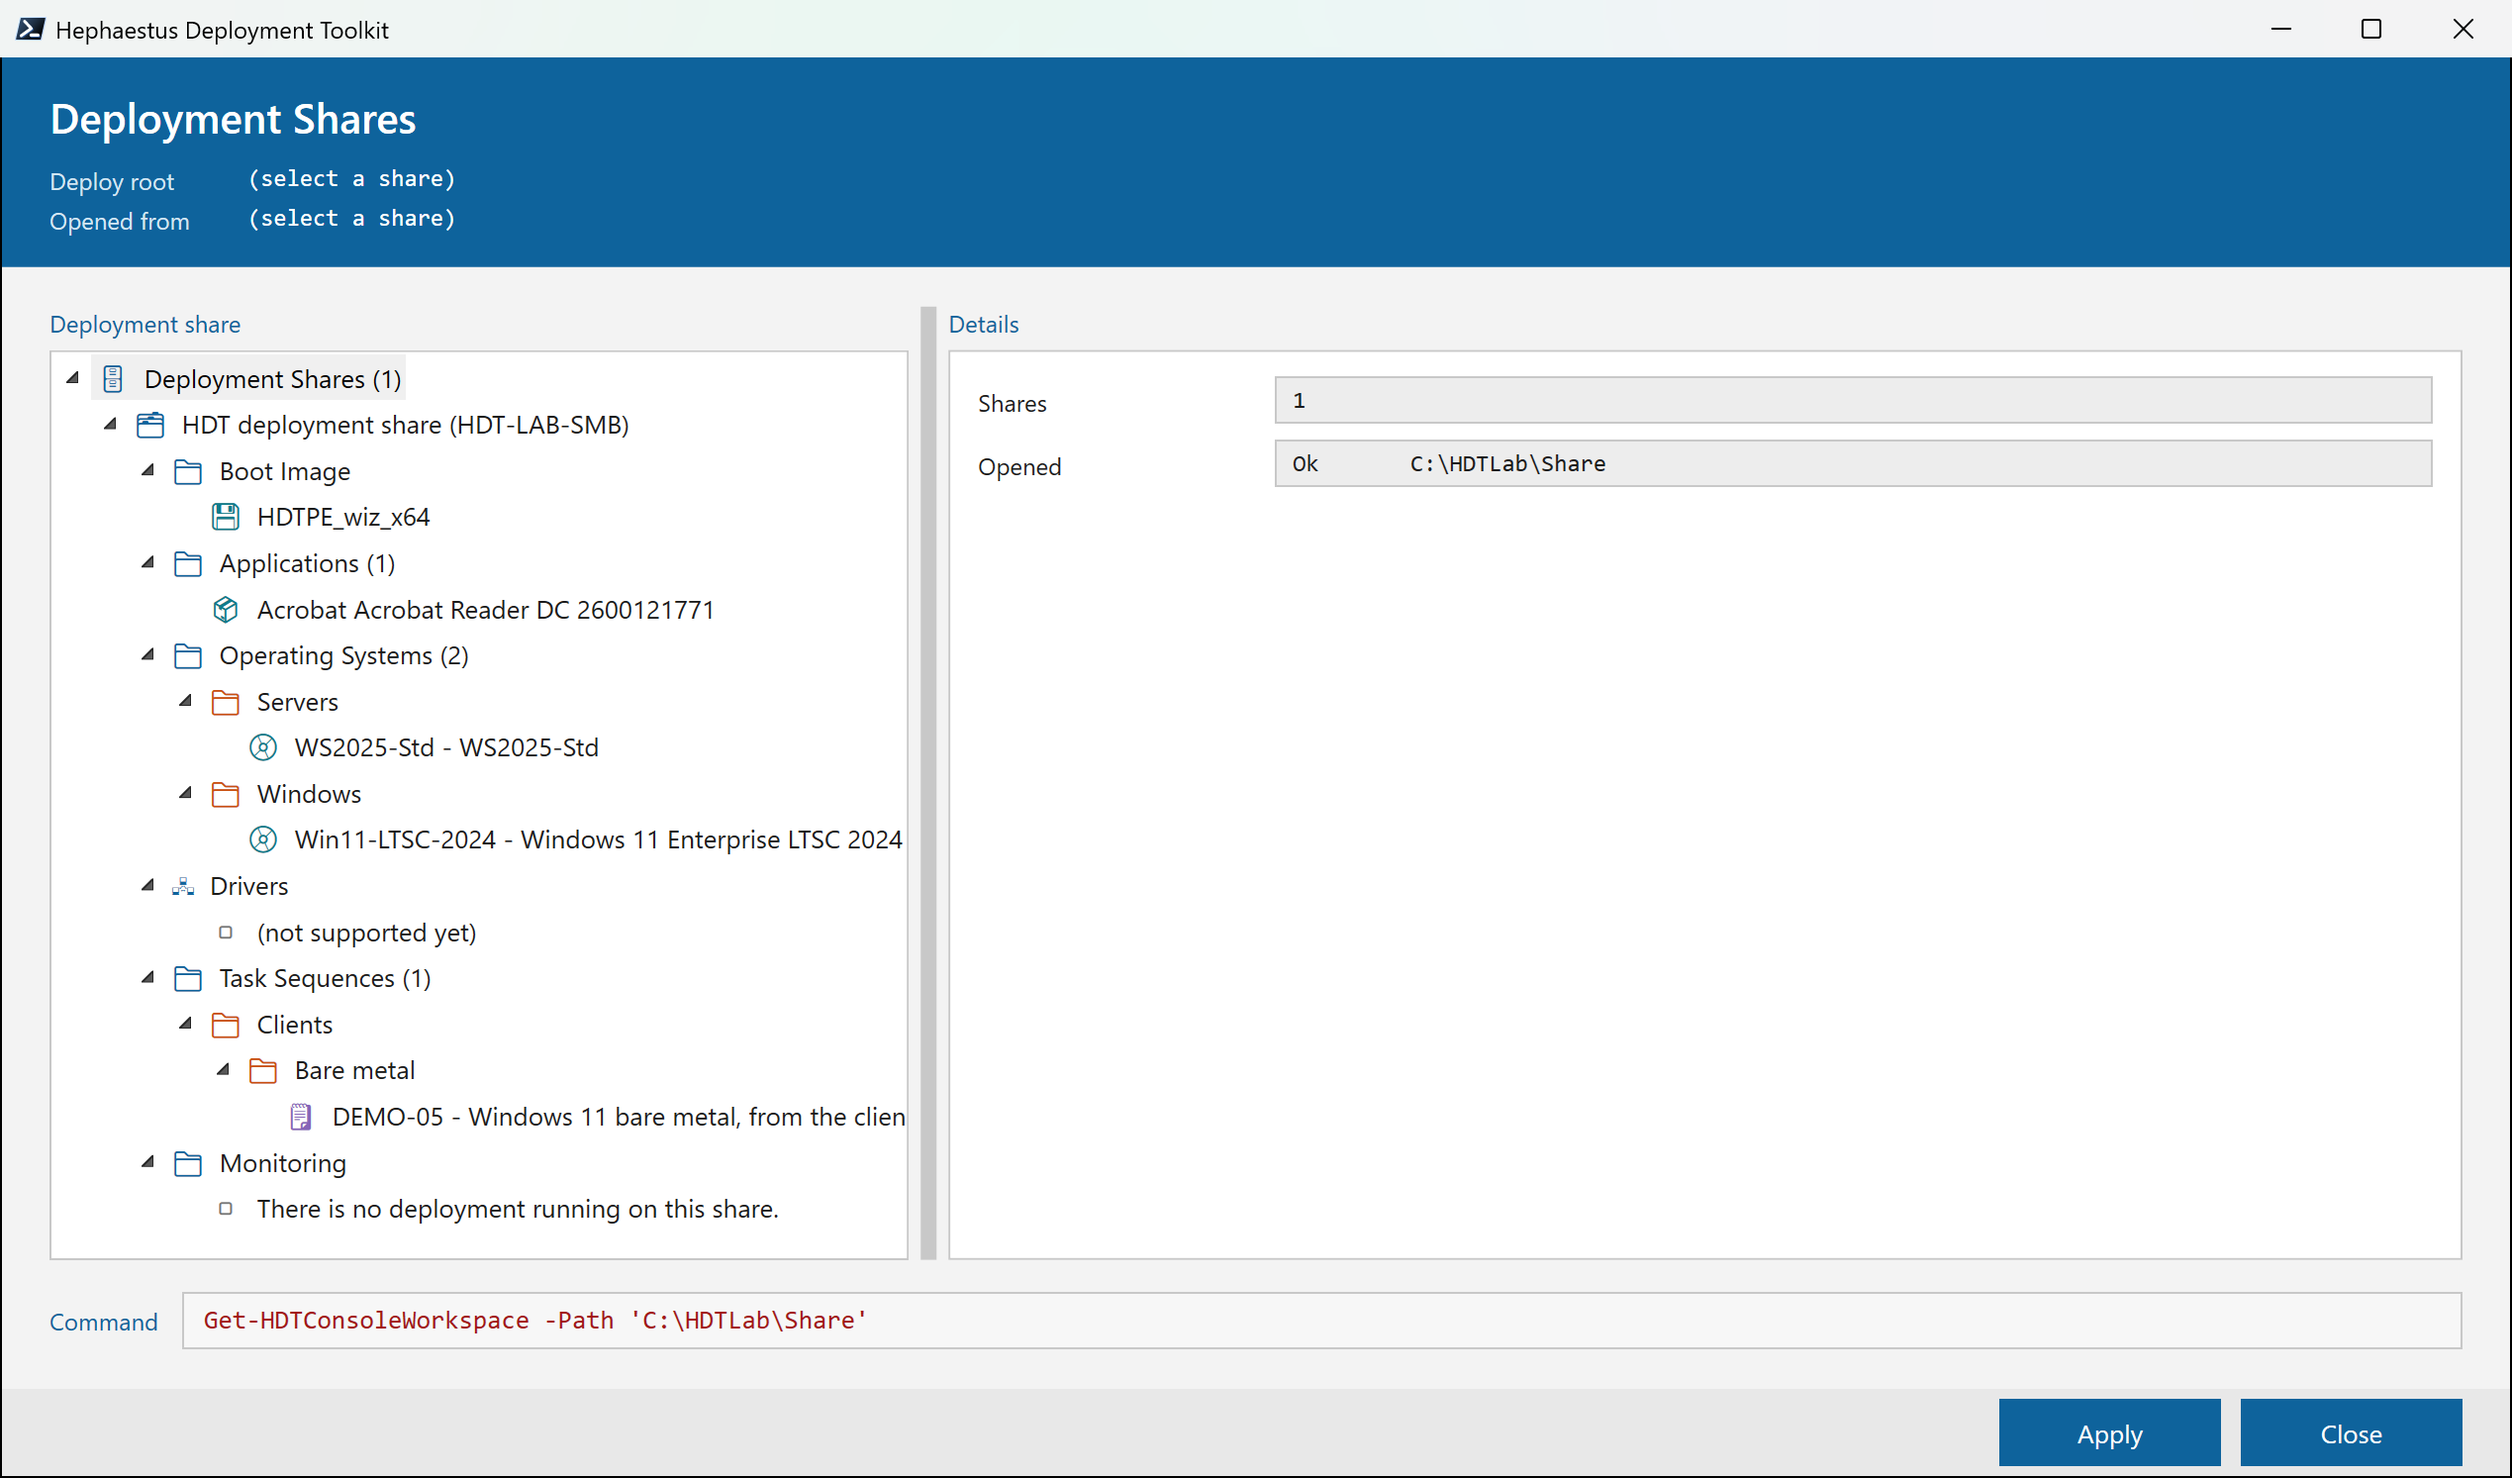
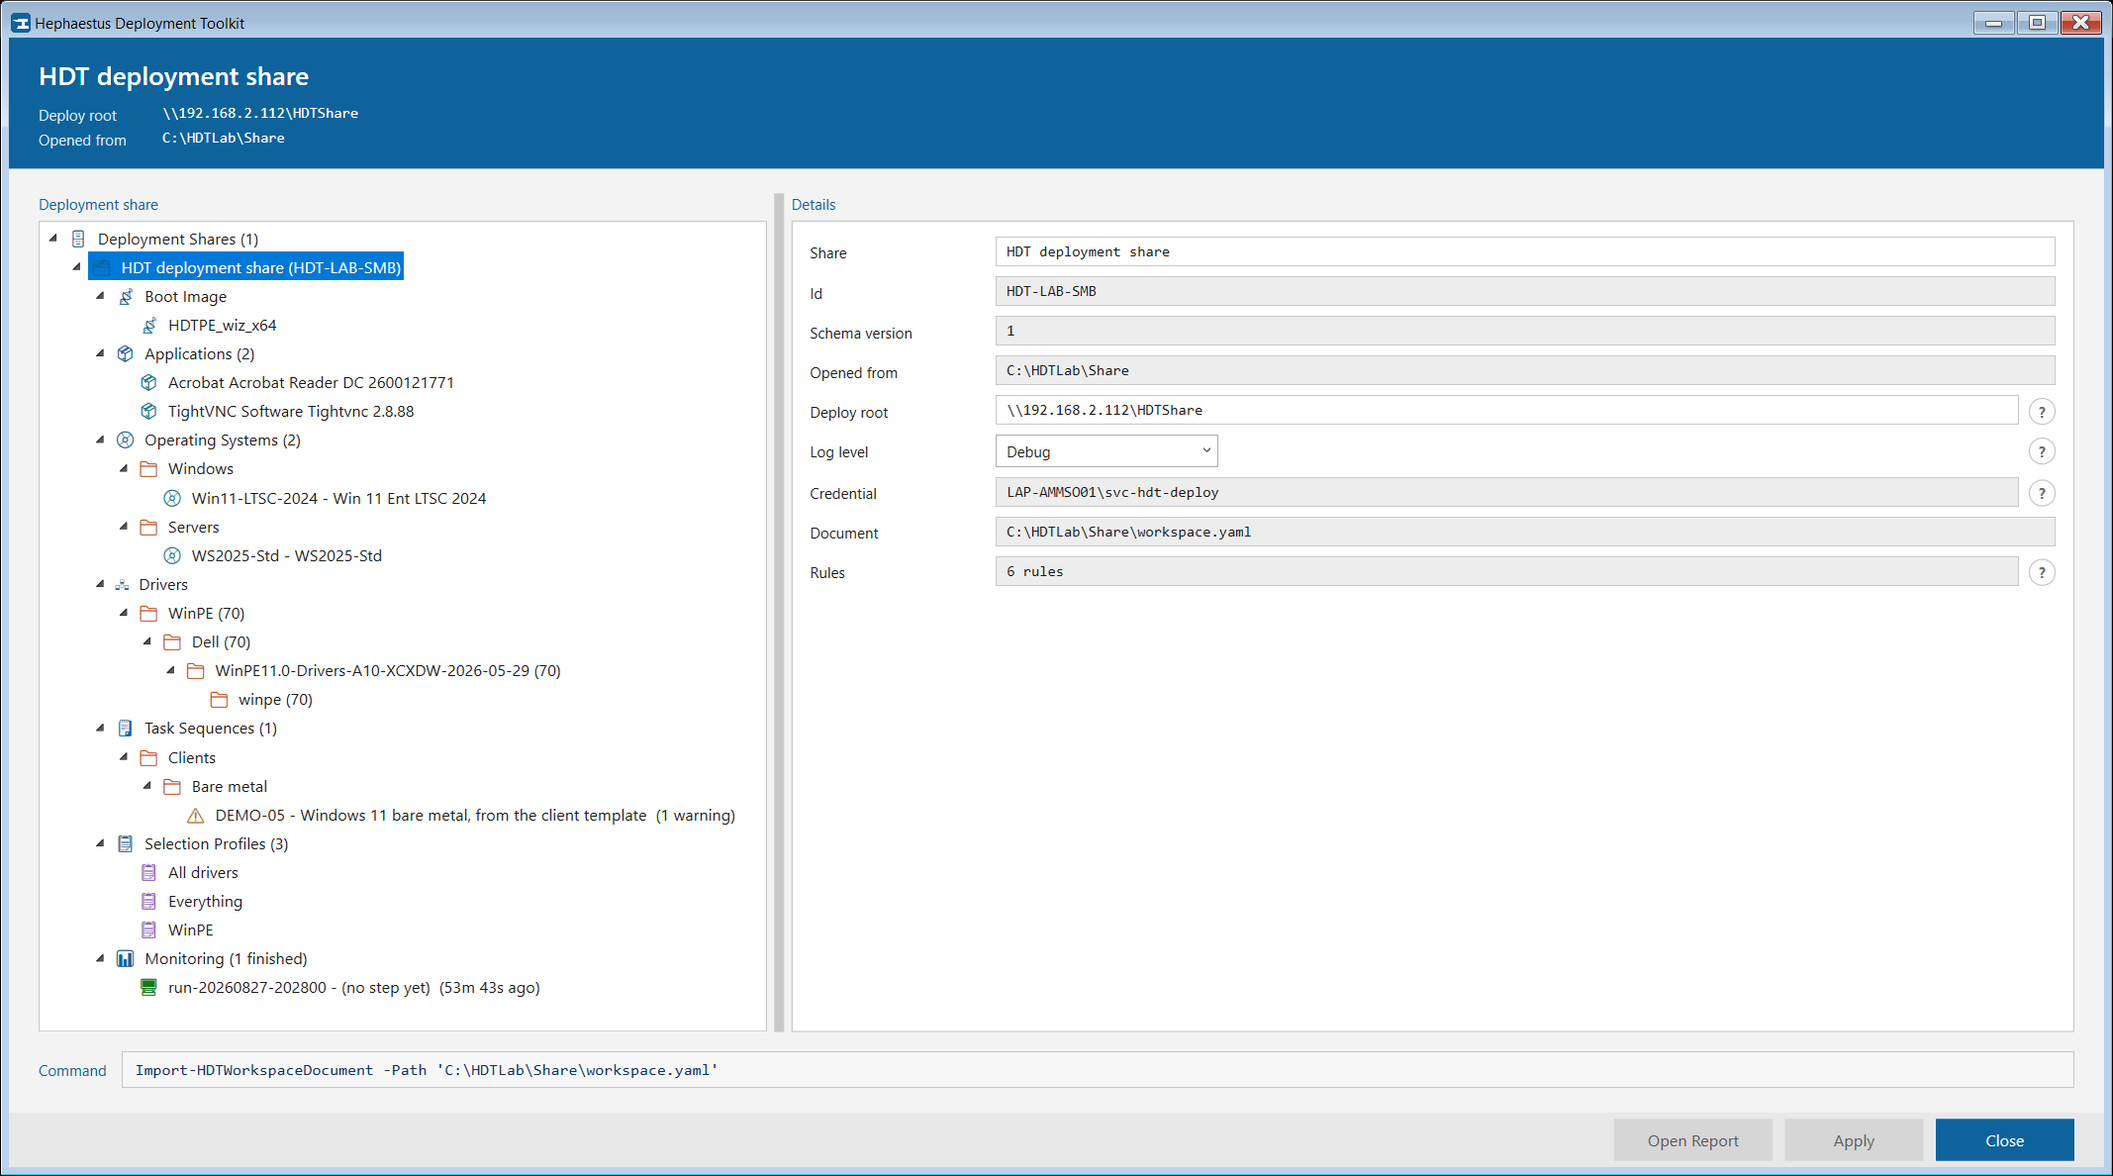
docs: the console gallery, and a Status that stopped at M2
The Status section listed M0, M1 and M2 and then stopped, while the roadmap
ran to M8 and M8 was met. It is a table now, sourced from the roadmap's own
markers - including the two that are not simple: M5 shipped group match and
the catalog but defers the PnP fallback to v2, and M7 is deferred to v2
entirely, scheduled out rather than cut. M6's step types all ship and the
roadmap records no exit for it, which is what it now says rather than a
claim either way.

console.png predated today's icons. Every category on a share used to draw
the same closed folder; the shot now shows the seven it draws instead.

AND MONITORING WAS NOWHERE IN THE README, which is odd for the node that
watches a deployment happen. What Health means, why a verdict is never aged
and a claim always is, why Last heartbeat is a time rather than the age the
row above it already carries, and what Clear Run is for.

No screenshot of it: the only run on the lab share was written by the engine
BEFORE today's fix, so its row still reads '(no step yet)' and '0 of 12'. A
gallery image advertising a bug that no longer exists is worse than no image,
and deleting somebody's run to take a prettier picture is not a reason to
delete anything.

Claude-Session: https://claude.ai/code/session_016BGxA1DUuUgZUMa8HBoWRV

Changed region(s): [[0.0, 0.0, 1.0, 1.0]]

diff --git a/README.md b/README.md
@@ -101,6 +101,44 @@ machine cannot reach the share, so a static address can be typed and retried.
 
 ![The WinPE Welcome screen](docs/images/wizard-welcome.png)
 
+**Monitoring** is MDT's node of the same name, without its web service or its
+SQL. The engine writes one small heartbeat per running deployment into
+`Logs\_active\` on the share, and the console tails that directory on a timer:
+a machine appears there within seconds of starting and moves as it works.
+
+Every run carries a **Health**, and the four the engine can report are kept
+apart rather than flattened into "done":
+
+| Health | What it means |
+|---|---|
+| **Live** | running, and it spoke within the stale window |
+| **Rebooting** | waiting to restart, and it will carry on afterwards |
+| **Finished** | the sequence succeeded |
+| **Failed** | it did not, and the row is drawn as an error |
+| **Stalled** | it claims to be working and has said nothing for 20 minutes |
+| **Unreadable** | the heartbeat parsed but carried no timestamp |
+
+A verdict is never aged and a claim always is. Succeeded and Failed are final,
+so they do not decay into Stalled — a completed heartbeat is not a heartbeat
+that stopped, and ageing one into a red row teaches a technician to ignore red.
+Running and Rebooting both *claim* something is still happening, so silence past
+the stale window means the claim is what went wrong: a machine that rebooted and
+never came back is exactly the failure this node exists for.
+
+**Last heartbeat** is a local wall-clock time, not an age — the age is already
+on the tree row, and a time is what gets written into a ticket or lined up
+against a log. Nothing syncs a clock in WinPE, so a machine can be hours ahead
+of the console; the age clamps to zero so it is not branded stale, but the time
+is shown exactly as claimed, because that disagreement is the only thing on
+screen that makes the skew visible.
+
+Nothing ever removed a heartbeat, so a share that had built fifty machines drew
+fifty rows with the live one somewhere among them. **Clear Run** on a row takes
+it off. It is the one deletable thing on a share that breaks nothing — no task
+sequence reads a heartbeat, no boot image names one — so the dialog says the
+deployment itself is unaffected instead of borrowing the "cannot be undone"
+warning the real removals carry.
+
 ## The PowerShell 5.1 constraint
 
 The engine runs inside WinPE, and WinPE ships Windows PowerShell 5.1 only —
@@ -326,32 +364,35 @@ dying mid-write, and it never contains the deployment password.
 
 ## Status
 
-**Phase 01 (M0 — skeleton and harness) is complete.** The module skeleton, the
-`HDTTestTools` and `HDTFakes` helper modules, `build.ps1`, the naming /
-PowerShell 5.1 / no-MDT contract tests, the first service fakes and their
-contracts, the harness self-proof and CI are all in place. `./build.ps1 -Task
-test` is green on a clean clone under both engines.
+A milestone is not done until its exit criteria are met with a green suite.
+`docs/ROADMAP.md` holds each one and how it was proven.
 
-**Phase 02 (M1 — variables and rules) is complete.** Fact gathering behind
-`ICimProvider`, the `rules.yaml` parser and schema, the five-source resolution
-engine with `%Var%` expansion and `setFrom:` script rules, and provenance —
-queryable with `Get-HDTVariableProvenance` and written to `provenance.json`. The
-M1 exit criterion is demonstrated end to end in
-`tests/unit/GatherAndResolve.EndToEnd.Tests.ps1`, over fixtures and fakes only.
+| Milestone | State |
+|---|---|
+| **M0** — skeleton and harness | complete |
+| **M1** — variables and rules | complete |
+| **M2** — task sequence engine | met |
+| **M3** — imaging | met |
+| **M4** — boot image, ISO and PXE | met, as scoped in the roadmap |
+| **M5** — drivers | group match and the catalog shipped; the **PnP fallback** for an unrecognised model is deferred to v2 |
+| **M6** — applications and full-OS steps | the step types ship — `InstallApplications`, `InstallRoles`, `InstallCertificate`, `EnableBitLocker`, `PowerShell`, `Tattoo` — and the roadmap records no exit for it yet |
+| **M7** — capture and standalone media | **deferred to v2**, at the author's direction. Scheduled out, not cut |
+| **M8** — console (WPF) | met |
 
-**Phase 03 (M2 — task sequence engine) is complete.** `sequence.yaml` with its
-schema, groups, nesting and the closed condition grammar; the step contract and
-its discovery convention; the execution loop with `runIn`, conditions,
-`continueOnError`, retry with backoff and timeout detection; the state document
-with a checkpoint either side of every step; the autologon lifecycle with a
-per-deployment password in an LSA secret, `AutoLogonCount`, a boot-time reconcile
-and teardown from `finally`; structured JSONL + CMTrace logging; and
-`ConvertTo-HDTReport`. The M2 exit criterion is demonstrated twice: by
-`tests/unit/TaskSequence.EndToEnd.Tests.ps1`, which runs the `DEMO-M2` sample
-across three legs and two reboots against fakes and asserts the exact ordered
-list of operations it would have performed on a machine, and by a live run of the
-same sequence against the real filesystem, clock and process service whose report
-was opened in a browser.
+**M8's four legs were walked in the real window, not read out of the source.**
+Author a task sequence, edit it, build the boot image and ISO from the console,
+and watch the run land in Monitoring — with the equivalent cmdlet readable off
+every action. The fourth leg finished on real hardware on 2026-08-27: a
+Generation 2 VM booted the ISO the console had just built, reached the share,
+ran the sequence zero-touch, restarted into the full OS, resumed under
+autologon, and was watched from the Monitoring node the whole way.
+
+That last leg is also where three defects in this node were found, none of which
+any test had caught: a failed deployment drawn as a green "Finished", a
+last-heartbeat that repeated the age already on the row, and a final heartbeat
+that reported step 0 of 12 because the step context had been cleared before the
+verdict was written. The console is checked by looking at it for exactly this
+reason.
 
 ## Test-driven, without exception
 
